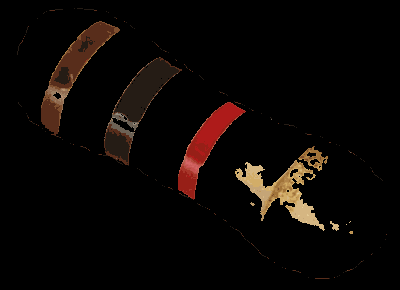
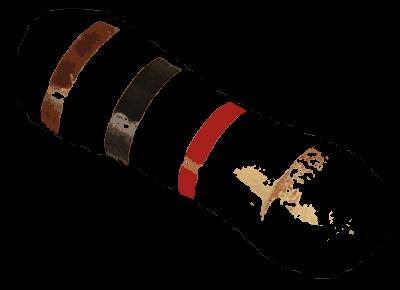
Edited Readme

diff --git a/samples/resistor/ColourDetection/ColourSeparation.py b/samples/resistor/ColourDetection/ColourSeparation.py
@@ -291,5 +291,5 @@ if __name__ == '__main__':
         print("Image not found")
         exit(-1)
 
-    bands = getColourBands(image, show_blobs=True)
+    bands = getColourBands(image, show_blobs=True, save_blobs=True)
     getResistance(bands)

diff --git a/README.md b/README.md
@@ -4,10 +4,16 @@ This is an app that uses an implementation of [Mask R-CNN](https://arxiv.org/abs
 
 # Detection Process
 The process of getting the resistance is the following:
-* Isolate the resistor image using image segmentation models like Mask R-CNN. Another method of isolating the resistor is using an object detection algorithm like openCV's Cascade Classifier.
-* Filter away the background by taking the average colour of the top and bottom row of the image and the resistor's body colour using bilateral filter and adaptive thresholding.
-* Identify the colour bands using HSV boundaries of each colour of the band and save their coordinates, if the boxes overlaps and are the same colour, keep only one of them
-* Assuming the order is correct (from left to right), calculate the resistance using according to the [resistor colour code table](https://eepower.com/resistor-guide/resistor-standards-and-codes/resistor-color-code/#)
+* ### Identifying and Extracting Resistor
+Isolate the resistor image using image segmentation models like Mask R-CNN. Another method of isolating the resistor is using an object detection algorithm like openCV's Cascade Classifier.
+* ### Colour Quantization & White Balancing (Optional)
+Quantize the image to reduce the number of colours that are used to represent the colour bands. White Balancing adjusts the image to render neutral colours correctly. Results vary.
+* ### Body Colour Filtering
+Filter away the background by taking the average colour of the top and bottom row of the image and the resistor's body colour using bilateral filter and adaptive thresholding.
+* ### Colour Detection
+Identify the colour bands using HSV boundaries of each colour of the band and save their coordinates, if the boxes overlap and are the same colour, keep only one of them
+* ### Resistance Calculation
+Assuming the order is correct (from left to right), calculate the resistance using according to the [resistor colour code table](https://eepower.com/resistor-guide/resistor-standards-and-codes/resistor-color-code/#)
 
 # Mask R-CNN
 Trained a model using COCO weights to detect resistors of various kinds. The training process is adapted from [balloon.py](samples/balloon/balloon.py) and the detection process is adapted from [demo.ipynb](samples/demo.ipynb).
@@ -17,11 +23,11 @@ Trained a model using COCO weights to detect resistors of various kinds. The tra
 
 ### Cropping out to get the isolated resistor
 ![Resistor Mask](assets/resistor_mask.png)
-
+S
 # Colour Detection
 After extracting the resistor and padding the background with black, which makes colour detection of resistor bands more accurate, we now perform colour detection. To increase accuracy, we quantize the image using [opencv's implementation of K means algorithm](https://docs.opencv.org/3.4/d1/d5c/tutorial_py_kmeans_opencv.html). The range of the number of colours that works best for us is around 64 but this also depends on the lighting. Sometimes quantizing reduces the accuracy of the detections.
 
- For each hsv boundaries (colour boundaries), we create masks for each and find contours with areas that exceed some threshold and save the bounding box coordinates of that countour and its corresponding colour. The results will be the colour bands. However, this requires the resistors to be placed horizontally and the order of bands to be correct. For example, the first band is at the left.
+For each hsv boundary (colour boundaries), we create masks for each boundary and find contours with areas that exceed some threshold and save the bounding box coordinates of that contour and its corresponding colour. The results will be the colour bands. For starters, we assume that we are only dealing with resistors that only have 5% or 10% tolerance which means that the last band will always be either gold or silver. From that we can get the order of colours by comparing the coordinates of the bounding boxes. To extend it into a general resistor with different tolerance levels, we will have to assume for now that the orientation of the resistor is correct. That is, the algorithm will read and calculate the colour bands in the same way as how one would read off a resistor in real life, from left to right.
 
 ### Colour Quantization
 ![Image after Colour Quantization](assets/quantized_image.png)
@@ -37,13 +43,17 @@ Another method we've tried is to convert the image to gray scale, then use adapt
 
 Gold still cannot be detected.
 
-![Resistor](assets/ThirdTest/test-brown-41.png)
-![Resistor](assets/ThirdTest/test-brown-54.png)
+![Resistor](assets/ThirdTest/test-brown-60.png)
+![Resistor](assets/ThirdTest/test-black-40.png)
+![Resistor](assets/ThirdTest/test-red-2.png)
 
-These two contours are combined as one as the difference in x-coordinates is close enough for it to be the same band.
+![ColourBand](assets/ThirdTest/test-orange-5.png)
+The algorithm misdetected orange and could not detect gold.
 
-![Resistor](assets/ThirdTest/test-brown-63.png)
-![Resistor](assets/ThirdTest/test-red-1.png)
+Result:
+Number of colour bands detected: 4
+Sorted Position and Colours: [((50, 21), 'brown'), ((117, 65), 'black'), ((186, 102), 'red'), ((264, 171), 'orange')]
+Resistance: 1.00 kOhms LB: 999.50 Ohms UB: 1.00 kOhms
 
 ### Resistor with Yellow Band and Bleach coloured body
 ![Resistor](assets/SecondTest/resistor.jpg)
